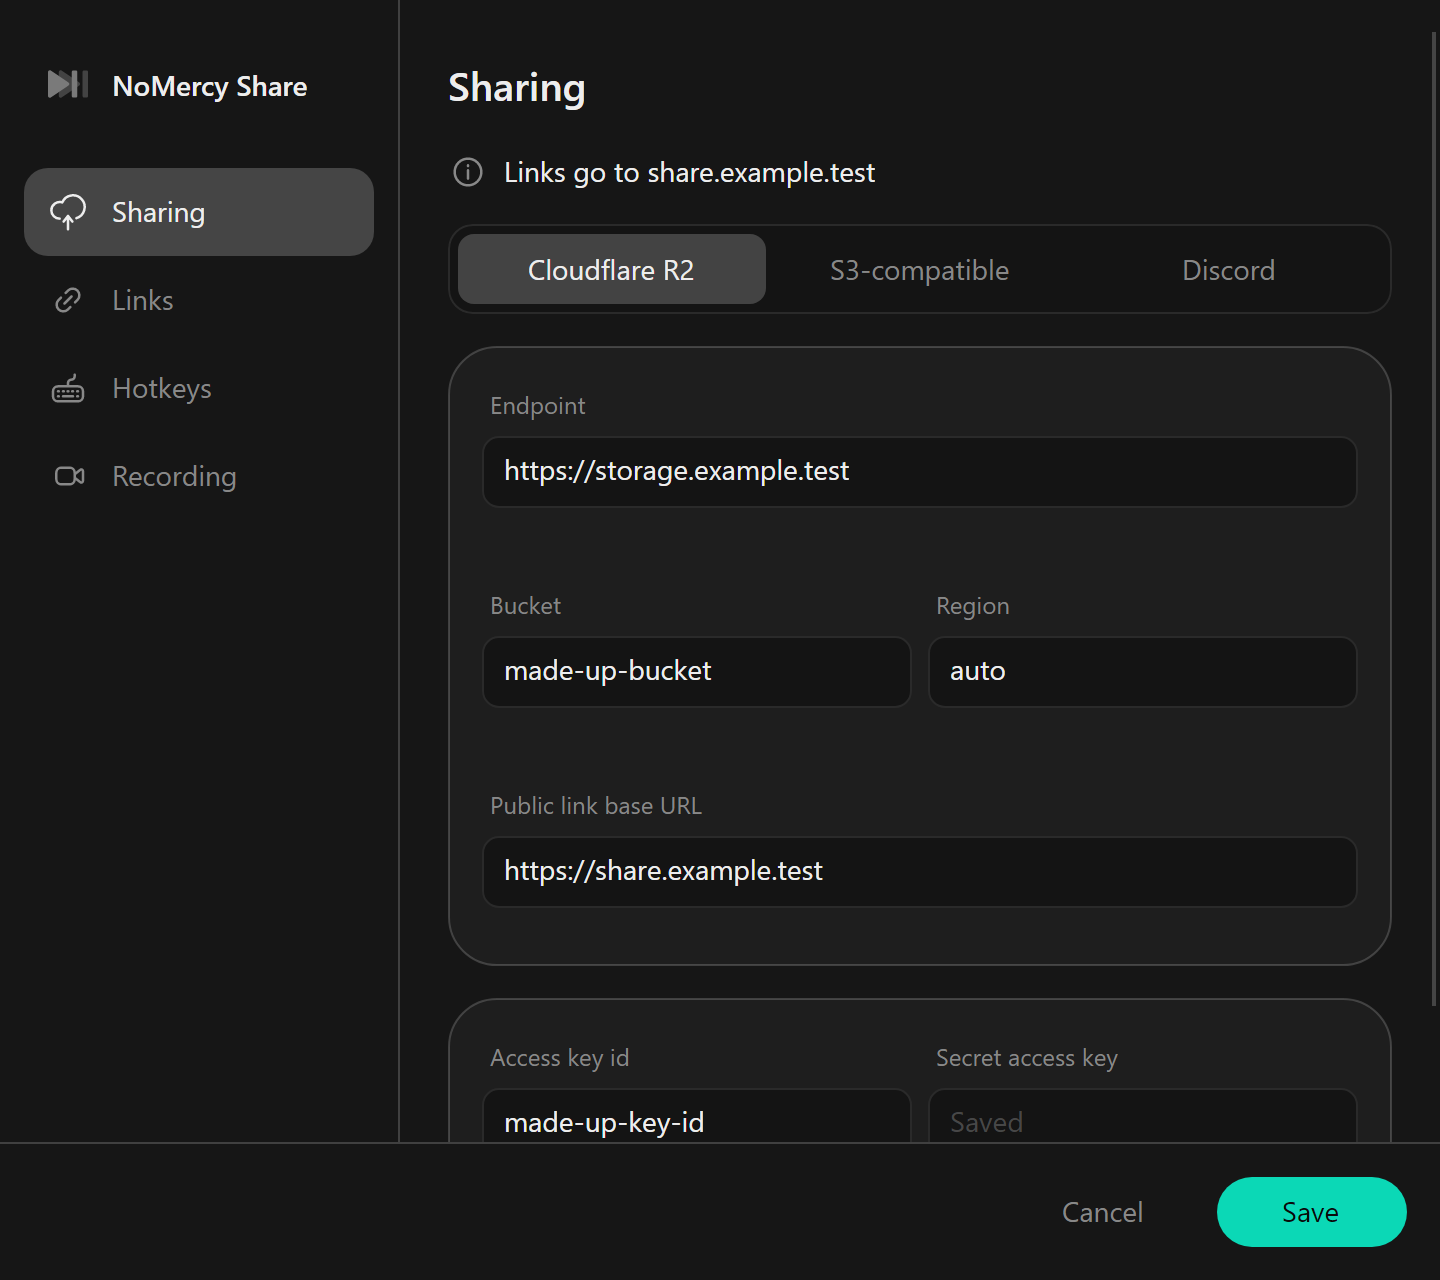
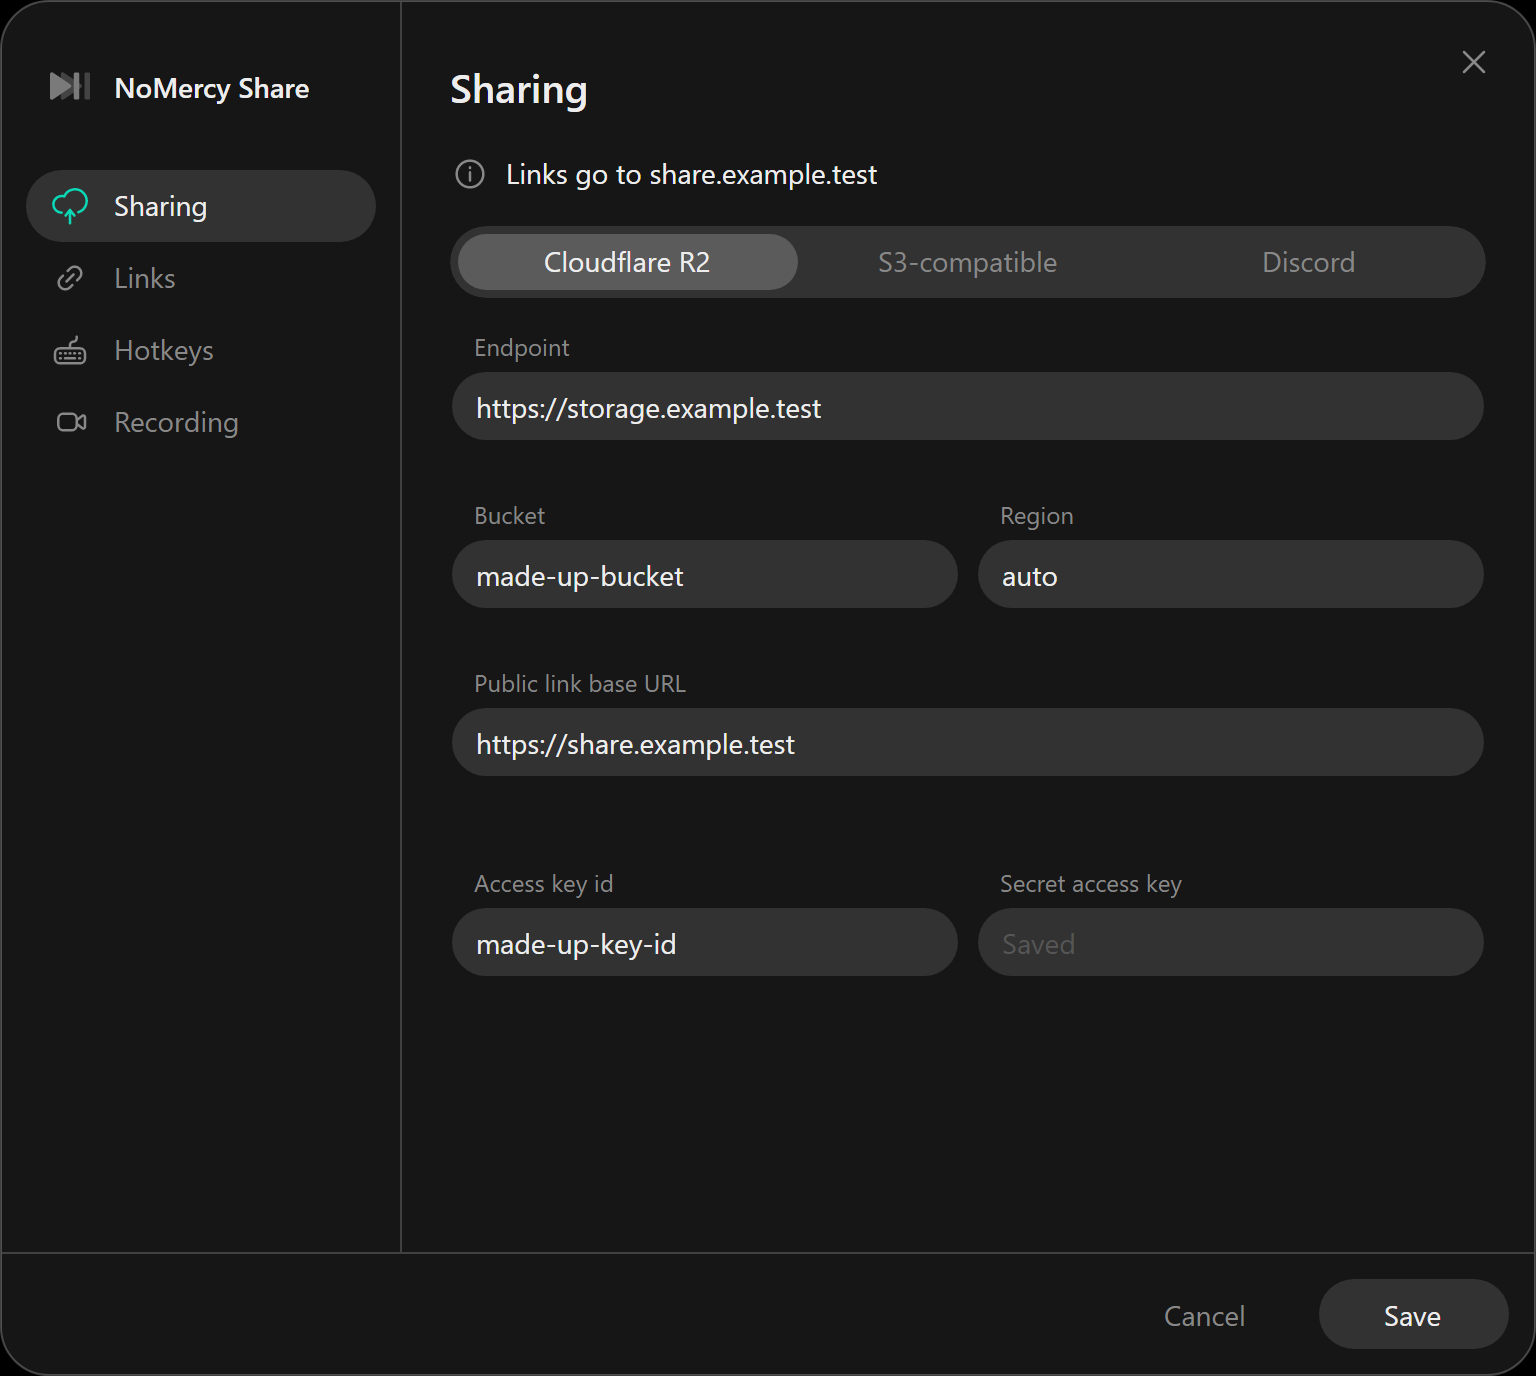
fix(settings): the window follows the bar's rules: its own surface, pills, no boxes, accent only on focus and active

diff --git a/tests/NoMercy.Share.App.Tests/SettingsWindowRenderTests.cs b/tests/NoMercy.Share.App.Tests/SettingsWindowRenderTests.cs
@@ -60,6 +60,51 @@ public sealed class SettingsWindowRenderTests
         }
     });
 
+    /// <summary>The bar's rules: no OS frame, one surface with the bar's fill, ring and shadow, no box inside a box, and no accent at rest.</summary>
+    [Theory]
+    [InlineData(SettingsSection.Sharing)]
+    [InlineData(SettingsSection.Links)]
+    [InlineData(SettingsSection.Hotkeys)]
+    [InlineData(SettingsSection.Recording)]
+    public void TheWindowFollowsTheBarsRules(SettingsSection section) => HeadlessApp.Run(() =>
+    {
+        (SettingsWindow window, string root) = Open(section, width: null);
+        try
+        {
+            Assert.Equal(Avalonia.Controls.WindowDecorations.None, window.WindowDecorations);
+            Border surface = window.GetVisualDescendants().OfType<Border>().First(border => border.Name == "Surface");
+            Assert.Equal(Color(window, "Share-Bar-Brush"), (surface.Background as Avalonia.Media.ISolidColorBrush)?.Color);
+            Assert.Equal(Color(window, "Share-Ring-Brush"), (surface.BorderBrush as Avalonia.Media.ISolidColorBrush)?.Color);
+            Assert.NotEqual(default, surface.BoxShadow);
+
+            List<string> boxes = [.. window.GetVisualDescendants().OfType<Border>().Where(border => border.IsEffectivelyVisible && border.Classes.Contains("card")).Select(border => border.Name ?? "card")];
+            Assert.True(boxes.Count == 0, $"box inside the surface: {string.Join(", ", boxes)}");
+
+            Avalonia.Media.Color accent = Color(window, "Nm-Accent-Brush");
+            List<string> lit = [.. window.GetVisualDescendants().OfType<Control>()
+                .Where(control => control.IsEffectivelyVisible && control is not ToggleSwitch && !control.GetVisualAncestors().OfType<ToggleSwitch>().Any())
+                .Where(control => Fill(control) is Avalonia.Media.ISolidColorBrush { } brush && brush.Color == accent)
+                .Select(control => $"{control.GetType().Name} {control.Name}")];
+            Assert.True(lit.Count == 0, $"accent at rest: {string.Join(", ", lit)}");
+        }
+        finally
+        {
+            window.Close();
+            Directory.Delete(root, recursive: true);
+        }
+    });
+
+    private static Avalonia.Media.Color Color(SettingsWindow window, string key) =>
+        ((Avalonia.Media.ISolidColorBrush)window.FindResource(window.ActualThemeVariant, key)!).Color;
+
+    private static Avalonia.Media.IBrush? Fill(Control control) => control switch
+    {
+        Border border => border.Background,
+        Avalonia.Controls.Presenters.ContentPresenter presenter => presenter.Background,
+        Panel panel => panel.Background,
+        _ => null
+    };
+
     private static (SettingsWindow Window, string Root) Open(SettingsSection section, double? width)
     {
         Application.Current!.RequestedThemeVariant = ThemeVariant.Dark;

diff --git a/tools/NoMercy.Share.Screenshots/Program.cs b/tools/NoMercy.Share.Screenshots/Program.cs
@@ -63,7 +63,7 @@ public static class Program
                 root.GetVisualDescendants().OfType<ListBox>().First(list => list.Classes.Contains("segmented")).GetVisualDescendants().OfType<ListBoxItem>().First().Focus(NavigationMethod.Tab));
             SaveSettings(Path.Combine(folder, $"share-settings-focus-switch-{name}.png"), model, SettingsSection.Recording, prepare: root => root.GetVisualDescendants().OfType<ToggleSwitch>().First().Focus(NavigationMethod.Tab));
             SaveSettings(Path.Combine(folder, $"share-settings-combo-open-{name}.png"), model, SettingsSection.Links, prepare: root => root.GetVisualDescendants().OfType<ComboBox>().First().IsDropDownOpen = true);
-            SaveSettings(Path.Combine(folder, $"share-settings-scrolled-end-{name}.png"), model, SettingsSection.Sharing, prepare: root => root.GetVisualDescendants().OfType<ScrollViewer>().First(viewer => viewer.Extent.Height > viewer.Viewport.Height).ScrollToEnd());
+            SaveSettings(Path.Combine(folder, $"share-settings-scrolled-end-{name}.png"), model, SettingsSection.Sharing, prepare: root => root.GetVisualDescendants().OfType<ScrollViewer>().FirstOrDefault(viewer => viewer.Extent.Height > viewer.Viewport.Height)?.ScrollToEnd());
             SettingsViewModel failing = SettingsModel(Path.Combine(Path.GetTempPath(), $"share-settings-shots-{Guid.NewGuid():N}"));
             typeof(SettingsViewModel).GetProperty(nameof(SettingsViewModel.SaveError))!.SetValue(failing, "The settings were not saved: access to the path is denied.");
             SaveSettings(Path.Combine(folder, $"share-settings-save-error-{name}.png"), failing, SettingsSection.Hotkeys);

diff --git a/src/NoMercy.Share.App/Settings/SettingsWindow.axaml.cs b/src/NoMercy.Share.App/Settings/SettingsWindow.axaml.cs
@@ -17,6 +17,16 @@ public partial class SettingsWindow : Window
     {
         DataContext = viewModel;
         viewModel.CloseRequested += (_, _) => Close();
+        Handle.PointerPressed += OnHandlePressed;
+    }
+
+    /// <summary>The window has no OS frame, so the brand row moves it, as the bar's handle does.</summary>
+    private void OnHandlePressed(object? sender, PointerPressedEventArgs e)
+    {
+        if (e.GetCurrentPoint(this).Properties.IsLeftButtonPressed)
+        {
+            BeginMoveDrag(e);
+        }
     }
 
     protected override void OnClosed(EventArgs e)
